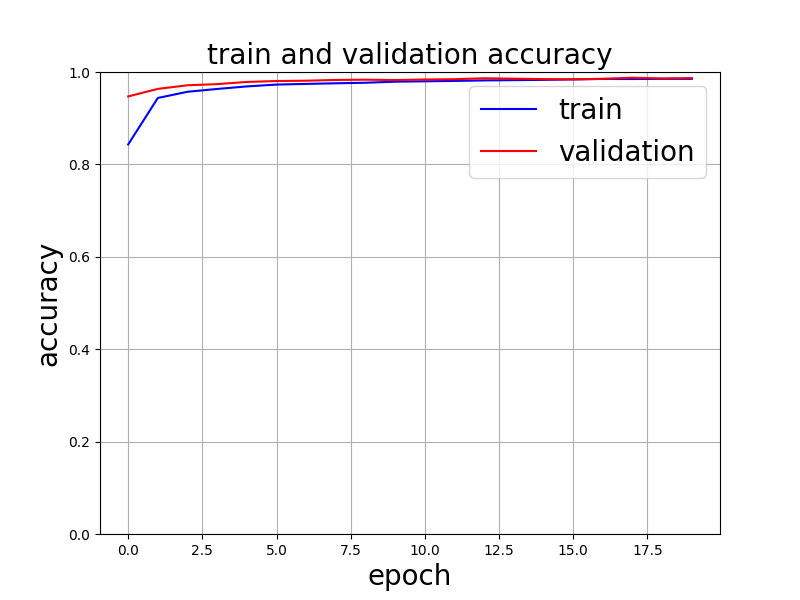
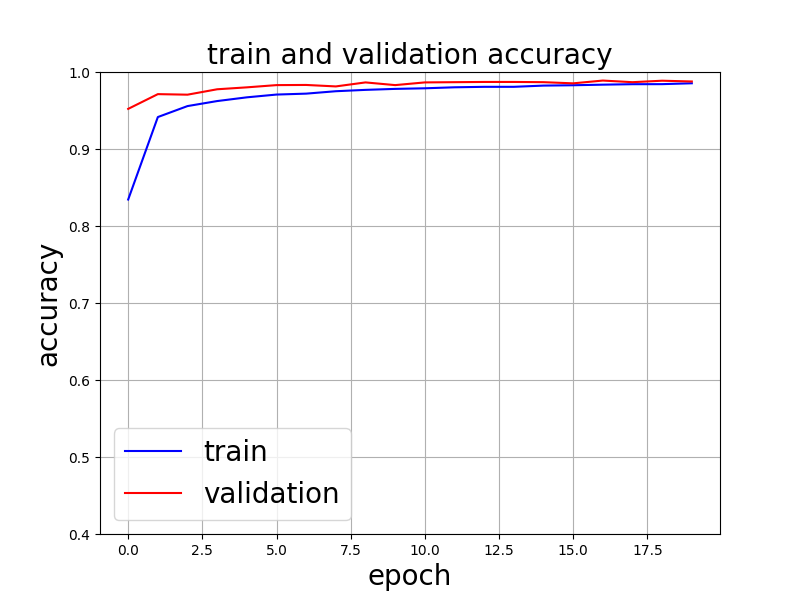
実験16

diff --git a/main.py b/main.py
@@ -14,7 +14,7 @@ model = get_resnet(pretrained=True).to(device)
 dataloader1 = get_train_dataloader(root="data", batch_size=64)
 dataloader2 = get_test_dataloader(root='data', batch_size=64)
 # オプティマイザーの定義
-optimizer = optim.SGD(params=model.parameters(),lr=1e-1)
+optimizer = optim.SGD(params=model.parameters(),lr=1e-2)
 # 損失関数の定義
 criterion = nn.CrossEntropyLoss()
 #epoch数
@@ -48,7 +48,7 @@ def train(epochs):
     print(f"epoch: {epochs + 1}")
     print(f"train_loss: {train_loss / len(dataloader1)}")
     print(f"train_accuracy: {train_accuracy / len(dataloader1)}")
-    with open('./result/data20_train.csv', 'a') as f:
+    with open('./result/data16_train.csv', 'a') as f:
             f.write('{:<3d},{:<3f},{:<3f}\n'.format(epochs+1,train_loss / len(dataloader1),train_accuracy / len(dataloader1)))
     train_loss = train_loss / len(dataloader1)
     train_accuracy = train_accuracy / len(dataloader1)
@@ -77,7 +77,7 @@ def val(epochs):
     print(f"epoch: {epochs + 1}")
     print(f"Validation loss: {val_loss / len(dataloader2)}")
     print(f"Validation accuracy: {val_accuracy / len(dataloader2)}")
-    with open('./result/data20_val.csv', 'a') as f:
+    with open('./result/data16_val.csv', 'a') as f:
             f.write('{:<3d},{:<3f},{:<3f}\n'.format(epochs+1,val_loss / len(dataloader2),val_accuracy / len(dataloader2)))
     val_loss = val_loss / len(dataloader2)
     val_accuracy = val_accuracy / len(dataloader2)
@@ -104,7 +104,7 @@ def run():
     plt.xlabel('Predict class', fontsize=13)
     plt.ylabel('True class', fontsize=13)
     plt.title('Confusion Matrix', fontsize=18)
-    plt.savefig('./result/confusion_matrix_15.png')
+    plt.savefig('./result/confusion_matrix_16.png')
     #lossグラフ作成
     fig, ax = plt.subplots(figsize=(8, 6))
     ax.plot(range(len(train_loss_list)), train_loss_list, c='b', label='train')
@@ -116,7 +116,7 @@ def run():
     ax.grid()
     ax.legend(fontsize='20')
     plt.show()
-    plt.savefig('./result/loss_graph_20.png')
+    plt.savefig('./result/loss_graph_16.png')
      #accuracyグラフ作成
     fig, ax = plt.subplots(figsize=(8, 6))
     ax.plot(range(len(train_accuracy_list)), train_accuracy_list, c='b', label='train')
@@ -128,7 +128,7 @@ def run():
     ax.grid()
     ax.legend(fontsize='20')
     plt.show()
-    plt.savefig('./result/accuracy_graph_20.png')
+    plt.savefig('./result/accuracy_graph_16.png')
     #間違えた数字の可視化
     fig = plt.figure(figsize=(20,5))
     data_block = torch.cat(data_list,dim=0)
@@ -139,7 +139,7 @@ def run():
         ax.axis('off')
         ax.set_title(f'true:{true_list[idx]} pred:{preds_list[idx]}')
         ax.imshow(data_block[idx,0])
-        plt.savefig('./result/misspreddata_20')
+        plt.savefig('./result/misspreddata_16')
 
 if __name__ == "__main__":
     run()

diff --git a/dataset/mnist.py b/dataset/mnist.py
@@ -5,7 +5,8 @@ from torchvision import transforms
 
 def get_train_dataloader(root: str, batch_size: int=64):
     transform = transforms.Compose([
-        transforms.ToTensor()
+        transforms.ToTensor(),
+        transforms.RandomRotation(degrees=90)
     ])
 
     train_dataset = MNIST(
